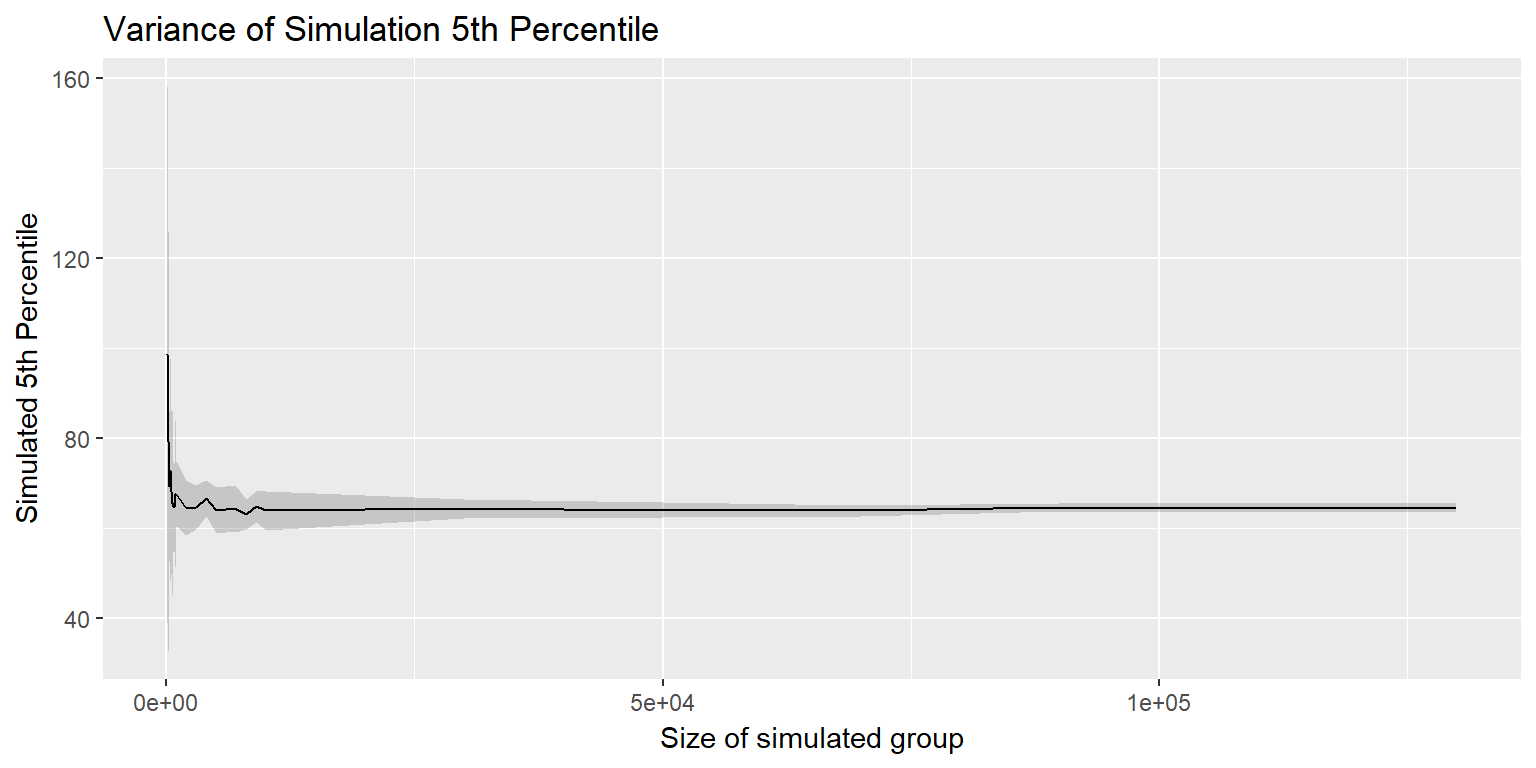
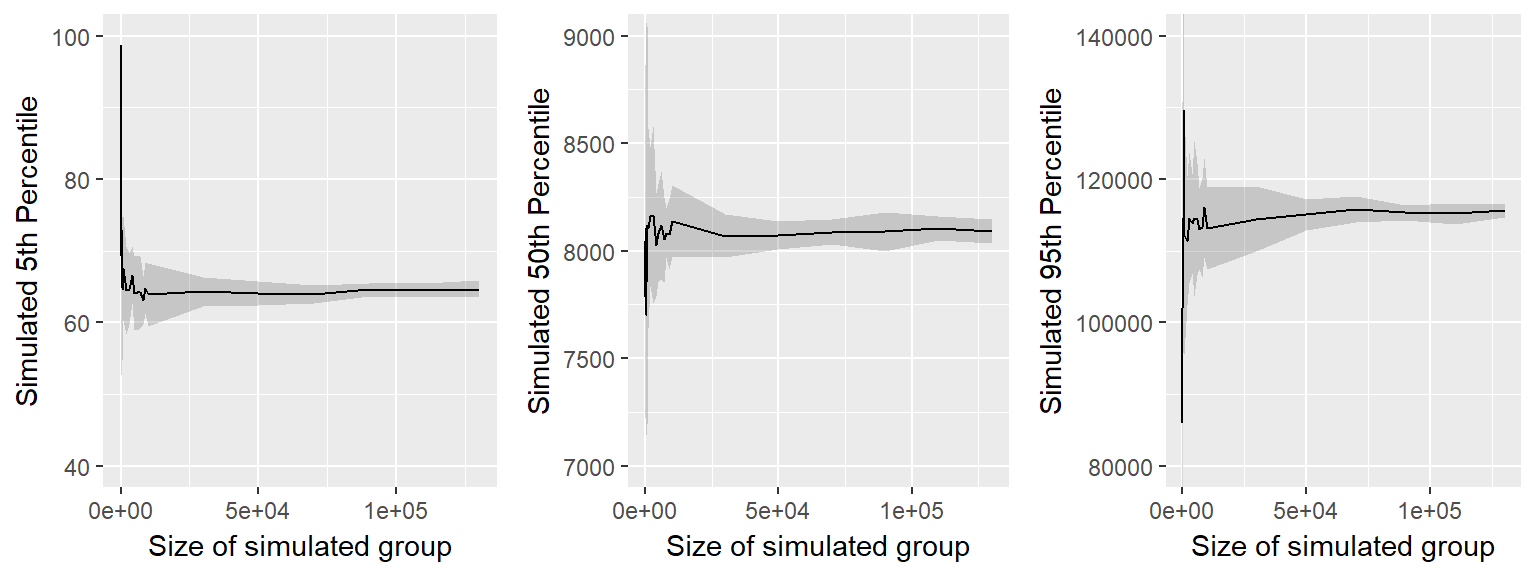
chapter 3 simulation discussion + graphs
created skeleton for the simulation discussion

diff --git a/docs/3-ref-labels.html b/docs/3-ref-labels.html
@@ -211,10 +211,9 @@
 <p>If there had been improvement for a group, we would expect the simulated distributions to paint a bleaker picture of the environmental burden borne than the true distribution of the ending year.</p>
 <div id="simulation-accuracy" class="section level3">
 <h3><span class="header-section-number">3.3.1</span> Simulation Accuracy</h3>
-<p>We use bootstrap sampling to approximate the standard errors of the simulated estimates of the 5th, 50th and 95th quantiles with different values for n. This sampling helps us to choose a size of the sample to get an accurate measure, and frames the final values we report.</p>
+<p>We use bootstrap sampling to approximate the standard errors of the simulated estimates of the 5th, 50th and 95th quantiles with different values for n. This is done by simulating the new distribution at time t repeatedly with varying n, and describing the distribution of quantiles produced. This sampling helps us to choose a size of the sample to get an accurate measure, and frames the final values we report.</p>
 <p><img src="thesis_files/figure-html/simulationSE-1.png" width="768" style="display: block; margin: auto;" /></p>
-<p><img src="thesis_files/figure-html/unnamed-chunk-1-1.png" width="768" style="display: block; margin: auto;" /></p>
-<p><img src="thesis_files/figure-html/unnamed-chunk-2-1.png" width="768" style="display: block; margin: auto;" /></p>
+<p>For the 5th quantile, a relatively low n produces a fairly stable result, sampling with n = 15,000 appears sufficient. Due to the extreme right skew of the data, the 95th percentile requires a larger sample. Still n = 50,000 is sufficient.</p>
 
 </div>
 </div>
